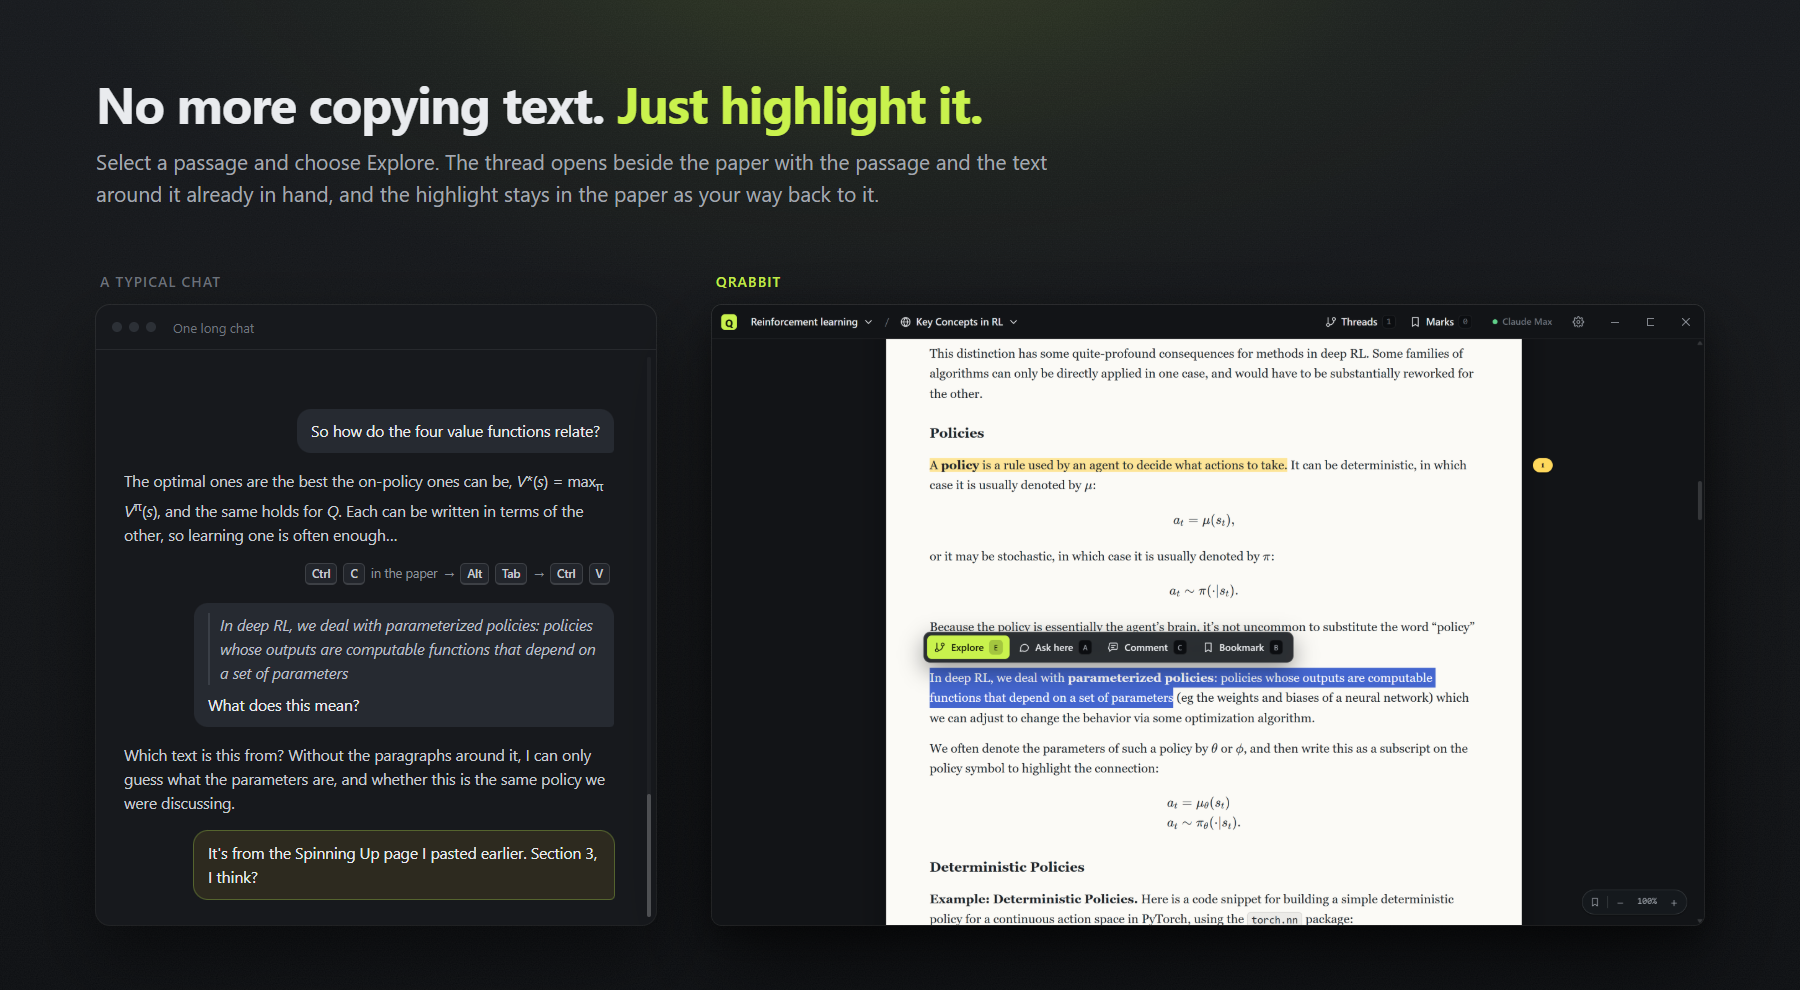
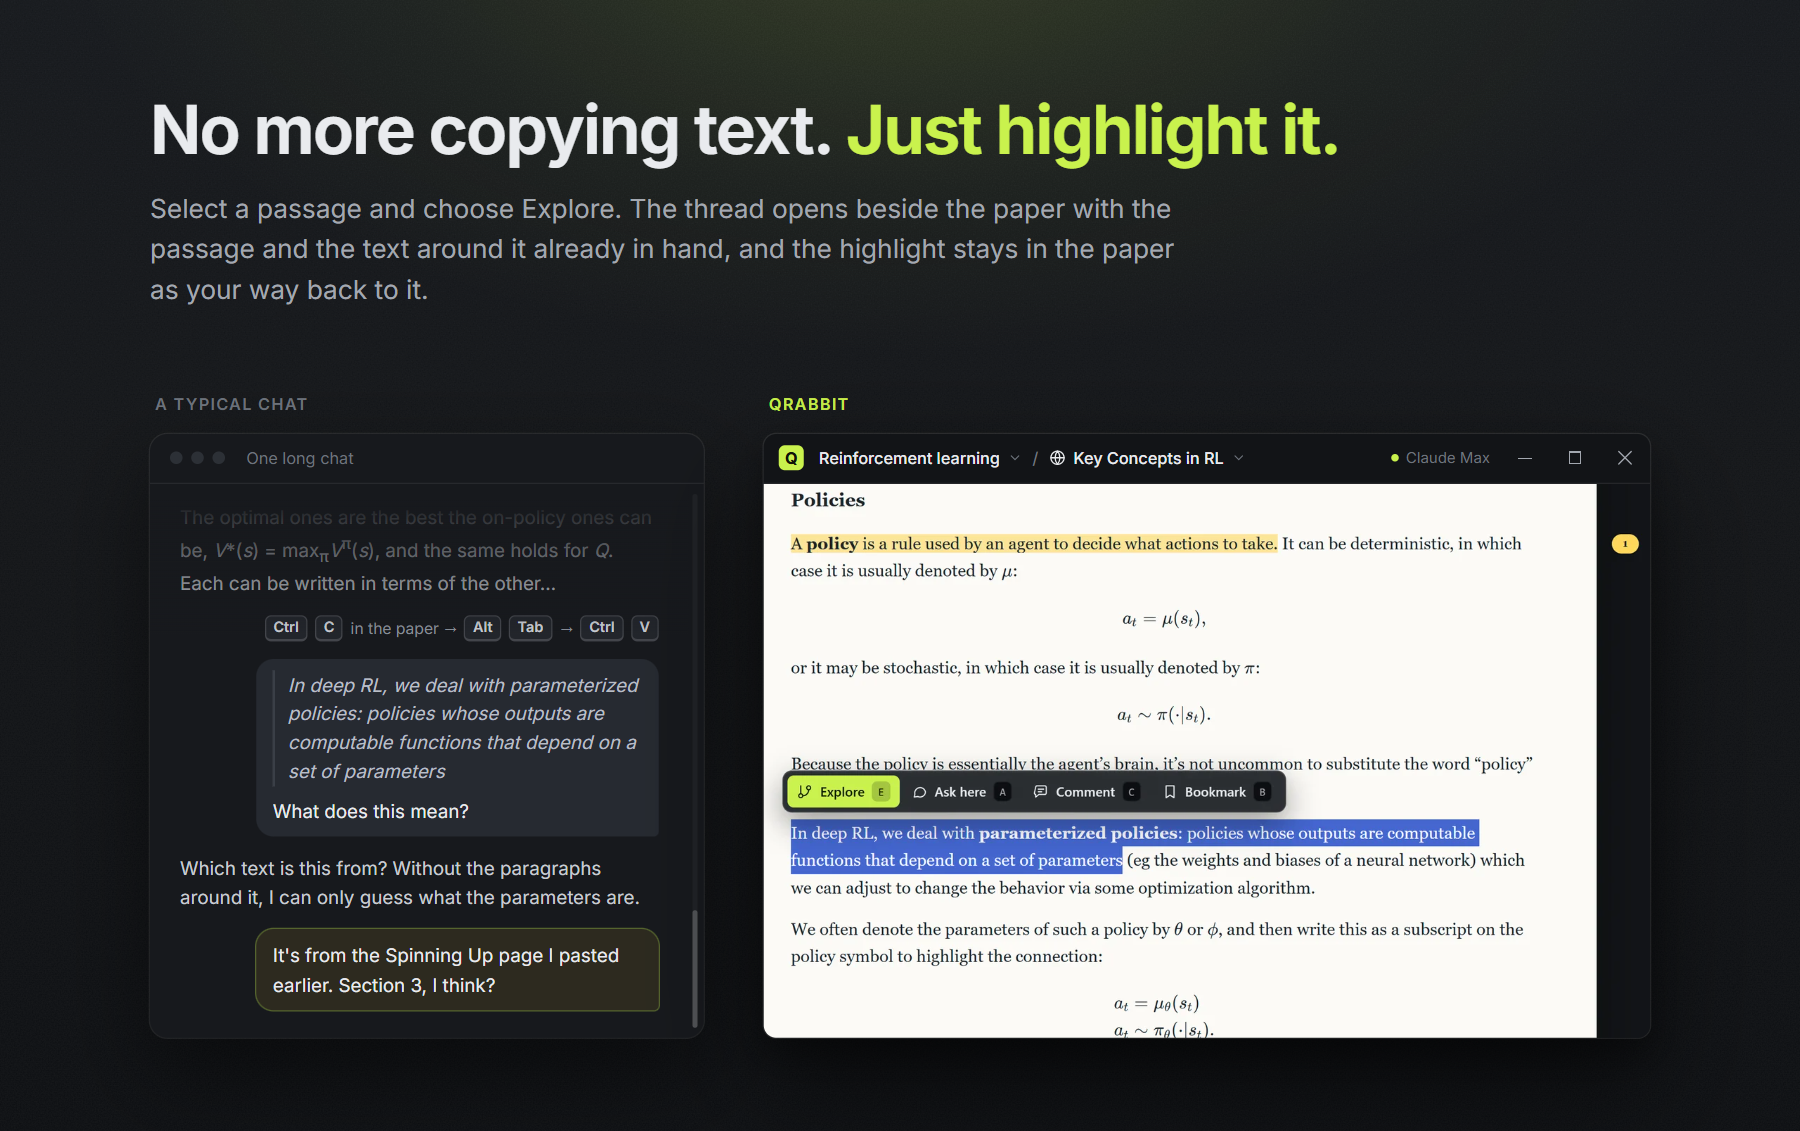
fix: update readme screenshots

diff --git a/.claude/skills/run-desktop/SKILL.md b/.claude/skills/run-desktop/SKILL.md
@@ -56,6 +56,6 @@ The dev script passes `--watch`, so a change under `src/main` or `src/preload` r
 - **A main-process module that cannot be resolved shows an error dialog instead of exiting**, so Playwright reports `electron.launch: Timeout` rather than a crash. Launch `electron.exe apps/desktop` directly and read its stderr to see the real error. The web-extraction libraries (`@mozilla/readability`, `linkedom`, `turndown`, `turndown-plugin-gfm`) are used by `@qrabbit/workspace` but are listed as dependencies of `apps/desktop` on purpose: electron-vite bundles the workspace package and keeps those libraries external, so Electron must be able to resolve them from the app's `node_modules`.
 - **Closing the panel re-renders the PDF pages at the new fit width.** A selection built on the old text-layer spans collapses when they are replaced, so the driver's `settle` helper waits for the page width to hold still after Undo before selecting again.
 - **The agent runs on Electron's bundled Node.** The main process spawns the ACP adapter with `process.execPath` and `ELECTRON_RUN_AS_NODE=1` set for that child only, so no system Node is needed. The adapter is resolved from `apps/desktop/node_modules/@agentclientprotocol/claude-agent-acp/dist/index.js`.
-- **README screenshots and demo.** The README opens with the demo video and follows it with three showcase images (highlighting, lists, collections) from `make-showcase.mjs`, below; `docs/screenshots/raw/` holds that tool's captures. `node tools/dev/stage-screenshots.mjs` can turn any flat capture in `raw/` into a tilted promo still for use elsewhere: the window chrome added back (Windows 11 corners and caption buttons, which a page screenshot leaves out) and a gentle 3D tilt, on a background taken strictly from the app theme (near-black and one soft glow of the lime accent; nothing else). `node tools/dev/record-demo.mjs [work-dir]` records the demo video as `demo.mp4` in its run folder; the README plays it as a GitHub attachment (drag the MP4 into README.md in github.com's editor and keep the user-attachments link), because animated WebP, tried first, blurred badly with a moving camera. The recorder: it imports the Spinning Up page, drives the real app with a visible cursor (select, Explore, question, answer, branch, back), records with the DevTools screencast at the display's own density (forcing 2x cut it to about 3 frames a second and slowed the whole run), and films each tick through a virtual camera on the same stage page before encoding with `ffmpeg-static`. The camera follows `focus()` notes the script makes as it goes (the region that matters next plus a window angle); each note becomes a key that eases in slightly ahead of the action. Zoom is capped near 1.5x and the window edges may enter the frame, so the tilt reads as a tilted window rather than a skewed crop. To change the framing, edit the `focus()` calls or `cameraFor`, then run `node tools/dev/record-demo.mjs --reframe <run-dir>` (add `--preview` for a quick half-size, 12 fps MP4 of the camera in the run folder). To iterate on the choreography, record with `--record-only`: the take runs in a visible window in about a minute and stops, printing the preview and final commands, so the developer can watch and approve it before the slow framing: each run saves `recording.json` (frames plus shots), so framing and encoding can be repeated without driving the app.  The framing step takes several minutes and logs every 100 frames; the app window closes before it starts. The two answers are scripted and streamed through the store, so the demo is repeatable; the branch still asks the real agent for its handoff. Motion, selection, typing and streaming run inside the page on timers, because a script round trip per step stretched the first take to over a minute and made drag-selection crawl; selections grow a character at a time with the cursor riding the end, then a bubbling `mouseup` brings up the app's toolbar. Opening the thread panel reflows the article about a second after the Explore click, so the recorder notes the moment the panel appears (a MutationObserver in the page) and dissolves across it while the camera pans to the panel. Both tools share `tools/dev/stage-page.mjs`.
-- **README showcase images.** `node tools/dev/make-showcase.mjs [work-dir]` makes `docs/screenshots/highlight.png` (a pasted passage against a selection with the Explore toolbar), `lists.png` (one long chat against a branch per point) and `collections.png` (home and a reading list) with their headlines. It imports public pages into three collections under `~\Documents\QRabbit` (so the app shows `~\…` paths), writes the list thread and its branches through the app's API, captures at scale 2 through the DevTools protocol (Playwright's own screenshots are pinned to 1x by its viewport emulation), composes, and deletes the folder, which it marks and will not touch if it did not make it. `--compose-only` rebuilds the images from `docs/screenshots/raw/`.
+- **README screenshots and demo.** The README opens with the demo video and follows it with three showcase images (highlighting, lists, collections) rendered from the promo site, below; `docs/screenshots/raw/` holds `make-showcase.mjs`'s captures. `node tools/dev/stage-screenshots.mjs` can turn any flat capture in `raw/` into a tilted promo still for use elsewhere: the window chrome added back (Windows 11 corners and caption buttons, which a page screenshot leaves out) and a gentle 3D tilt, on a background taken strictly from the app theme (near-black and one soft glow of the lime accent; nothing else). `node tools/dev/record-demo.mjs [work-dir]` records the demo video as `demo.mp4` in its run folder; the README plays it as a GitHub attachment (drag the MP4 into README.md in github.com's editor and keep the user-attachments link), because animated WebP, tried first, blurred badly with a moving camera. The recorder: it imports the Spinning Up page, drives the real app with a visible cursor (select, Explore, question, answer, branch, back), records with the DevTools screencast at the display's own density (forcing 2x cut it to about 3 frames a second and slowed the whole run), and films each tick through a virtual camera on the same stage page before encoding with `ffmpeg-static`. The camera follows `focus()` notes the script makes as it goes (the region that matters next plus a window angle); each note becomes a key that eases in slightly ahead of the action. Zoom is capped near 1.5x and the window edges may enter the frame, so the tilt reads as a tilted window rather than a skewed crop. To change the framing, edit the `focus()` calls or `cameraFor`, then run `node tools/dev/record-demo.mjs --reframe <run-dir>` (add `--preview` for a quick half-size, 12 fps MP4 of the camera in the run folder). To iterate on the choreography, record with `--record-only`: the take runs in a visible window in about a minute and stops, printing the preview and final commands, so the developer can watch and approve it before the slow framing: each run saves `recording.json` (frames plus shots), so framing and encoding can be repeated without driving the app.  The framing step takes several minutes and logs every 100 frames; the app window closes before it starts. The two answers are scripted and streamed through the store, so the demo is repeatable; the branch still asks the real agent for its handoff. Motion, selection, typing and streaming run inside the page on timers, because a script round trip per step stretched the first take to over a minute and made drag-selection crawl; selections grow a character at a time with the cursor riding the end, then a bubbling `mouseup` brings up the app's toolbar. Opening the thread panel reflows the article about a second after the Explore click, so the recorder notes the moment the panel appears (a MutationObserver in the page) and dissolves across it while the camera pans to the panel. Both tools share `tools/dev/stage-page.mjs`.
+- **README showcase images.** The three images under the demo (`docs/screenshots/highlight.png`, `lists.png`, `collections.png`) are rendered from the promo site, so the README and the site show the same comparisons: `pnpm site:build && node tools/dev/make-readme-images.mjs` serves the built site locally, lays it out at 1440 in an offscreen Electron window and captures each section at 1.25x (1800 wide) on the theme's glow background. The app captures inside them come from two tools, both of which drive the real app and import public pages into three collections under `~DocumentsQRabbit` (so the app shows `~…` paths), writing the list thread and its branches through the app's API, and delete that folder when they finish (they mark it and will not touch it otherwise). `node tools/dev/make-showcase.mjs [work-dir]` captures at 1280x800 into `docs/screenshots/raw/` (the site uses its `highlight.png`; `stage-screenshots.mjs` can tilt any of them). `node tools/dev/make-site-shots.mjs [work-dir]` captures the thread, the home screen and the reading list at about the width the site draws them and again at 400 for phones, into `apps/site/src/assets/`: at 1280 their text is too small to read in a site column. Both capture through the DevTools protocol at scale 2 (Playwright's own screenshots are pinned to 1x by its viewport emulation); the display's own scaling multiplies that scale, so `make-site-shots` measures the result and captures again when it is off, and the site records each capture's layout width in `src/shots.ts` rather than assuming one.
 - **Logo animation.** `node tools/dev/make-logo-animation.mjs [out-dir]` renders `logo.mp4` (1920x1080, 60 fps, about 8 s, ends on the lockup) and `logo.webp` (960x540, 30 fps, loops through a fade back to the background) into `tools/dev/out/logo/`. It does not drive the app: a line of Alice in Wonderland has "rabbit-hole" highlighted, the highlight springs into the icon's tile, the Q is written on, the camera falls four Qs deep through the counter (each Q's counter holds the next at a quarter size, a quarter turn round) and lands on the tile, which slides aside for the wordmark and tagline. Every frame is a pure function of time (`draw(t)` in the generated `logo.html`), captured offscreen, averaged in the Electron process and piped raw into `ffmpeg-static`. Each output frame is the mean of several captures across a 180-degree shutter, which is what keeps the fall from strobing: `SAMPLES` gives 12 through the fall (five left visible steps along the fastest edges), 4 for the gentler moves and 1 on holds. Averaging in ffmpeg (`tmix`) needs the same count everywhere, which wastes captures on the holds. The full render takes several minutes; `--preview` (half size, 30 fps, no blur, about 30 s) and `--stills=2.4,5.2` (PNGs of single moments) are the fast ways to iterate. The Q is the icon's own `<text>` glyph, so the counter geometry (`C`, `COUNTER`) is measured from `icon.png` and must be measured again if the icon's font changes. Colours are the theme's only: fading a dark ring over the lime gave an olive that the theme does not have, so the Qs already fallen through rush outward on landing instead of fading.

diff --git a/apps/site/README.md b/apps/site/README.md
@@ -16,6 +16,7 @@ Set `SITE_URL` when building for a real domain (`SITE_URL=https://example.com pn
 - **App screenshots**: the highlighting comparison is imported straight from `docs/screenshots/raw/`, the capture behind the README image, so rerunning `tools/dev/make-showcase.mjs` updates it too. The thread, the home screen and the reading list are captured by `node tools/dev/make-site-shots.mjs` (after `pnpm desktop:build`) into `src/assets/`, at about the width the site draws them and again at a phone's width: at the README's 1280 their text comes out too small. Each capture's layout width is recorded in `src/shots.ts`, and crops are given in that layout. Astro turns them all into responsive WebP at build time.
 - **The demo video** is left out of git. Put `demo.mp4` from `tools/dev/record-demo.mjs` (and optionally a `demo-poster.jpg`) in `public/` and a "See it move" section appears after the rabbit hole.
 - **`public/og.png`** is the 1200×630 social preview, rendered from the site's own components.
+- **The README's images** (`docs/screenshots/highlight.png`, `lists.png`, `collections.png`) are this site's sections, rendered by `node tools/dev/make-readme-images.mjs` after `pnpm site:build`. Change the comparisons here and render them again, rather than editing the images.
 
 ## Design
 

diff --git a/README.md b/README.md
@@ -8,9 +8,9 @@ https://github.com/user-attachments/assets/55911246-5bcf-4ba2-ac15-7b373cc4e1fc
 
 ![No more copying text, just highlight it: a passage pasted into a typical chat without its context on the left, and a passage selected in QRabbit with the Explore toolbar on the right](docs/screenshots/highlight.png)
 
-![Answers come as lists and follow-ups bury them: one long chat on the left, and QRabbit on the right with a branch for each point asked about](docs/screenshots/lists.png)
+![AI loves a list, keep them tidy: one long chat on the left where follow-ups on numbered points pile up into lists inside lists, and QRabbit on the right with a branch for each point asked about and the outline of those branches](docs/screenshots/lists.png)
 
-![Manage collections: the home screen listing collections, and a collection's reading list with read marks](docs/screenshots/collections.png)
+![One reading list per subject, one plain folder per list: the home screen listing collections, and a collection's reading list with read marks](docs/screenshots/collections.png)
 
 ## How it works
 
